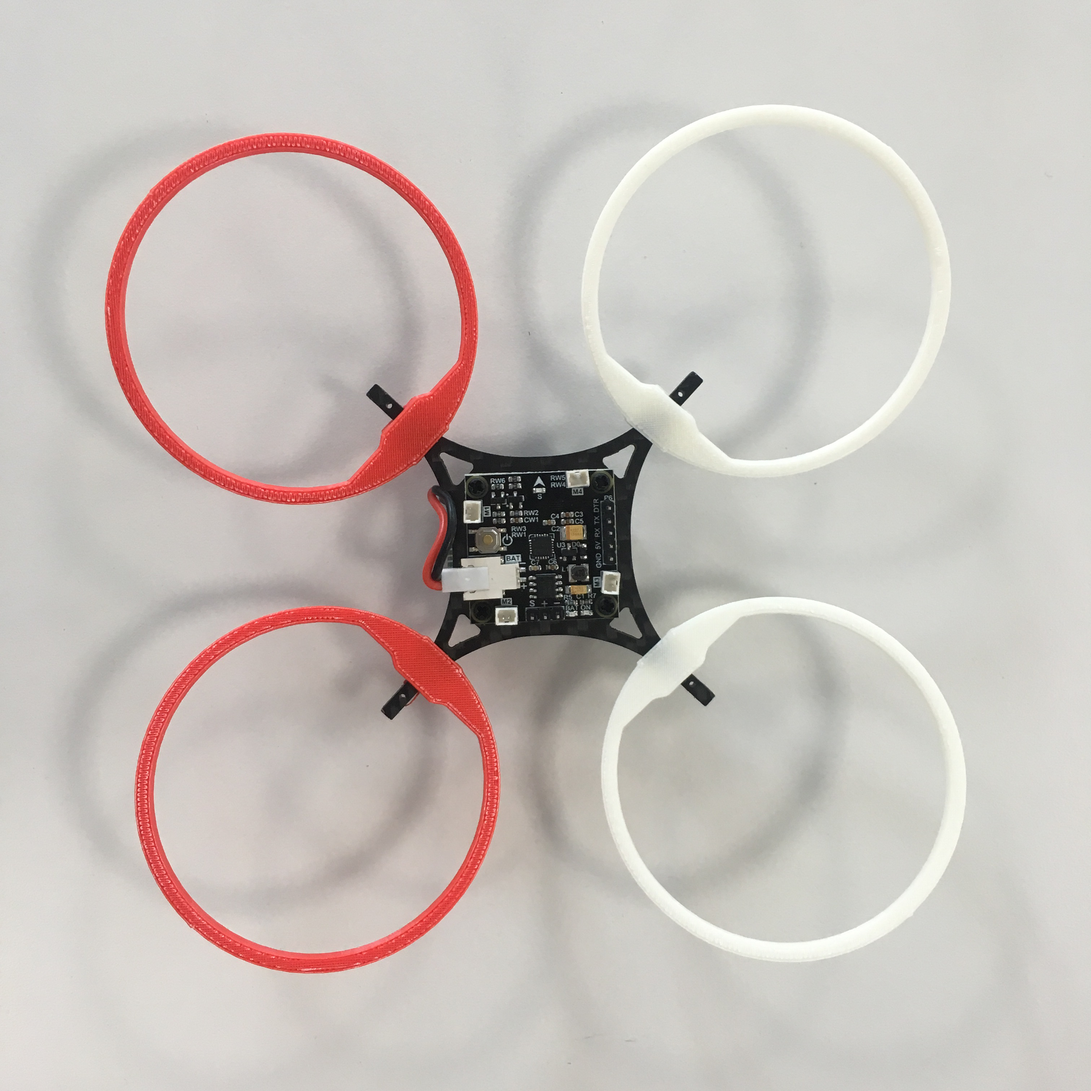
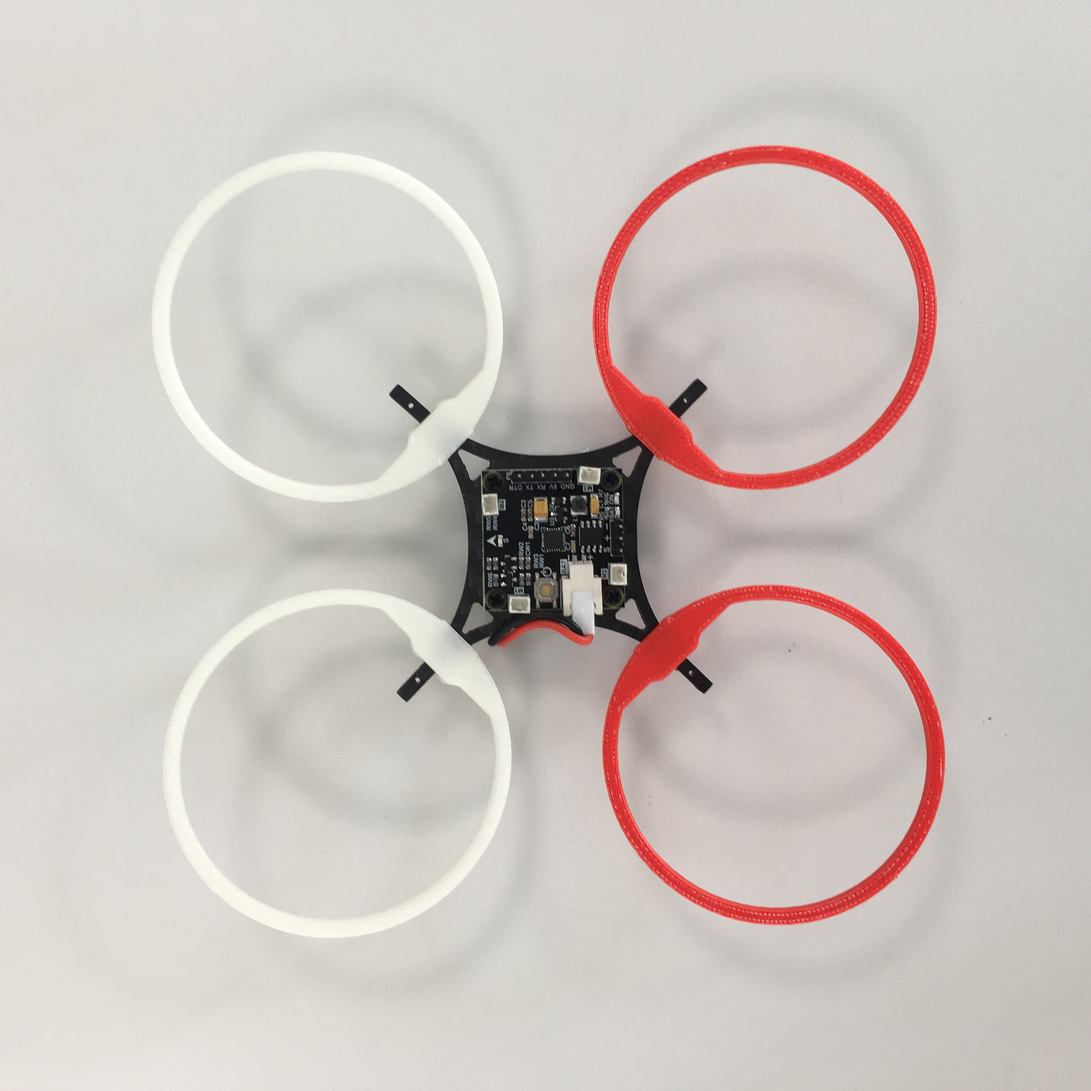
assembly - correction 1

diff --git a/make-drone/assembly.html b/make-drone/assembly.html
@@ -29,7 +29,7 @@
 									Before getting started with your assembly. We remind you that customization is part of the evaluation, you need to customized your drone. This is an example of a customized bumpers:
 								</p>
 								<blockquote>
-										<img src="ressources/assembly/assembly_8.jpg" width="100%" height="auto">
+										<img src="ressources/assembly/assembly_10.jpg" width="100%" height="auto">
 								</blockquote>
 						</div>
 
@@ -46,7 +46,7 @@
 						<div class="card-action">
 								<h5>2. Bumpers assembly</h5>
 								<p>
-										Plug the bumpers into the chassis. Flat side upward !!
+										Plug the bumpers into the chassis. Flat side upward !! The white bumpers represent the front of the drone, the red bumpers the back.
 								</p>
 								<blockquote>
 										<img src="ressources/assembly/assembly_2.jpg" width="100%" height="auto">
@@ -99,6 +99,11 @@
 									Place the motor blades like follow:
 								</p>
 								<blockquote>
+									  <br> Start with the blades number 1. Yes, the numbers are writen on the blades.
+										<img src="ressources/assembly/assembly_8.jpg" width="100%" height="auto">
+								</blockquote>
+								<blockquote>
+										<br> Then the blades number 2.
 										<img src="ressources/assembly/assembly_9.jpg" width="100%" height="auto">
 								</blockquote>
 						</div>
